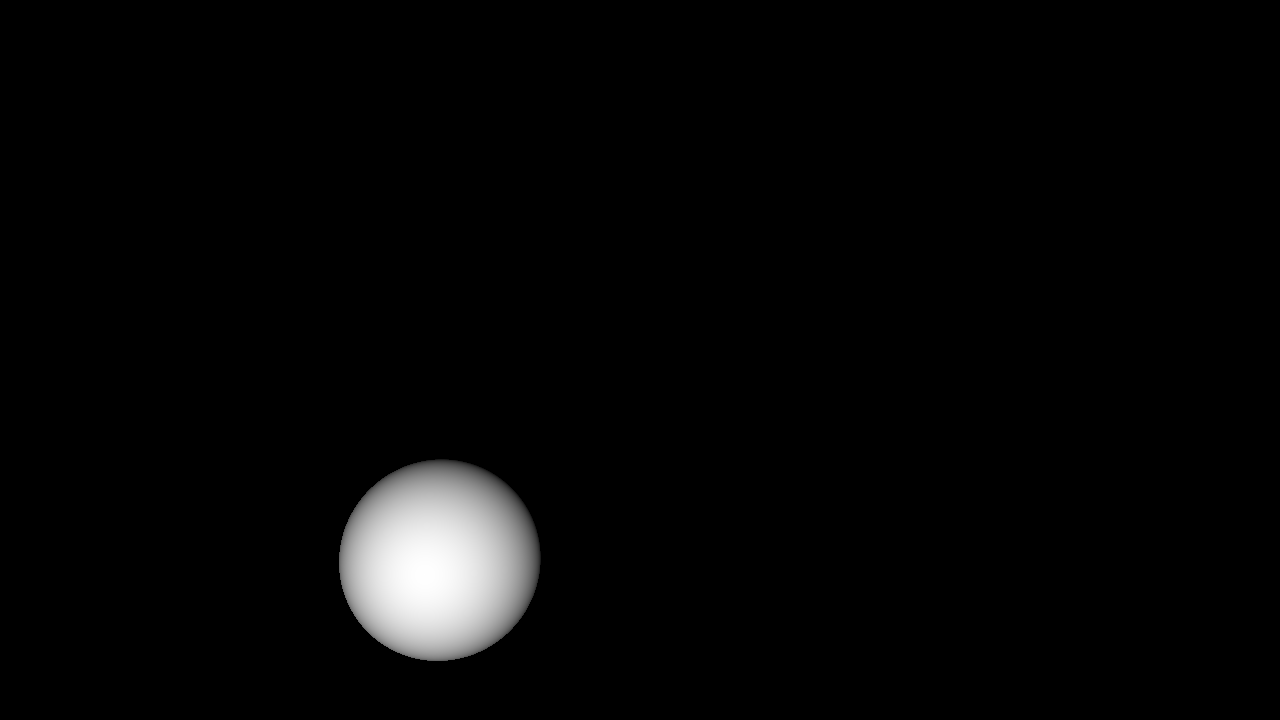
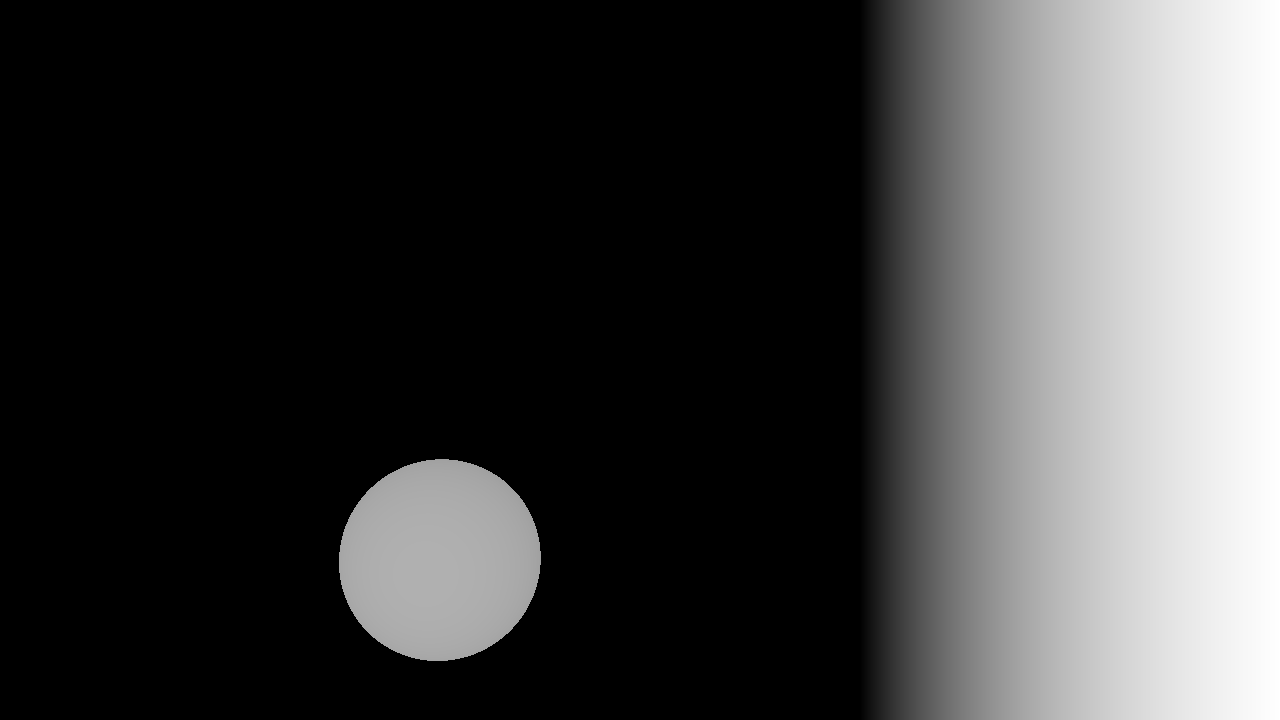
Made progress rendering plane

diff --git a/src/Plane.cpp b/src/Plane.cpp
@@ -6,67 +6,16 @@
 
 bool Plane::IntersectRay(const Ray& localRay, HitInfo& hitInfo, int hitSide) const
 {
-    const float a{ localRay.dir.Dot(localRay.dir) };
-    const float b{ 2 * localRay.dir.Dot(localRay.p) };
-    const float c{ localRay.p.Dot(localRay.p) - 1.0f };
+    if (abs(localRay.dir.z) < 1e-6f) return false;
 
-    const float discriminant{ b*b - 4*a*c };
-    if (discriminant < 0.0f) return hitSide == HIT_NONE;
+    const float t{ -localRay.p.z / localRay.dir.z };
+    const Vec3f pos{ localRay.p + localRay.dir * t };
+    if (abs(pos.x) > 1.0f || abs(pos.y) > 1.0f) return false;
 
-    const float discriminantSquareRoot{ sqrtf(discriminant) };
-    const float inverse2A{ 1.0f / (2.0f * a) };
-    const float t1{ (-b - discriminantSquareRoot) * inverse2A };
-
-    if (hitSide == HIT_FRONT)
-    {
-        if (t1 <= 0.0f)
-            return false;
-
-        hitInfo.z = t1;
-        hitInfo.p = localRay.p + localRay.dir * t1;
-        hitInfo.N = hitInfo.p;
-        hitInfo.front = true;
-        return true;
-
-    }
-
-    const float t2{ (-b + discriminantSquareRoot) * inverse2A };
-    if (hitSide == HIT_BACK)
-    {
-        if (t1 > 0.0f || t2 < 0.0f)
-            return false;
-
-        hitInfo.z = t2;
-        hitInfo.p = localRay.p + localRay.dir * t2;
-        hitInfo.N = hitInfo.p;
-        hitInfo.front = false;
-        return true;
-    }
-
-
-    if (hitSide == HIT_FRONT_AND_BACK)
-    {
-        if (t1 < 0.0f && t2 < 0.0f)
-            return false;
-
-        if (t1 > 0.0f)
-        {
-            hitInfo.z = t1;
-            hitInfo.p = localRay.p + localRay.dir * t1;
-            hitInfo.N = hitInfo.p;
-            hitInfo.front = true;
-        }
-        else
-        {
-            hitInfo.z = t2;
-            hitInfo.p = localRay.p + localRay.dir * t2;
-            hitInfo.N = hitInfo.p;
-            hitInfo.front = false;
-        }
-
-        return true;
-    }
-
-    return false;
+    hitInfo.z = t;
+    hitInfo.p = pos;
+    hitInfo.N = Vec3f{ 0.0f, 0.0f, 1.0f };
+    hitInfo.front = true;
+    return true;
 } 
 
